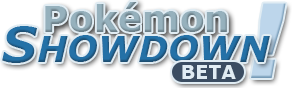
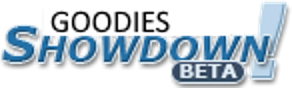
lolz

diff --git a/js/client-topbar.js b/js/client-topbar.js
@@ -14,7 +14,7 @@
 		initialize: function () {
 			// April Fool's 2016 - Digimon Showdown
 			// this.$el.html('<img class="logo" src="' + Tools.resourcePrefix + 'sprites/afd/digimonshowdown.png" alt="Digimon Showdown! (beta)" width="146" height="44" /><div class="maintabbarbottom"></div><div class="tabbar maintabbar"><div class="inner"></div></div><div class="userbar"></div>');
-			this.$el.html('<img class="logo" src="' + Tools.resourcePrefix + 'pokemonshowdownbeta.png" srcset="' + Tools.resourcePrefix + 'pokemonshowdownbeta@2x.png 2x" alt="Pok&eacute;mon Showdown! (beta)" width="146" height="44" /><div class="maintabbarbottom"></div><div class="tabbar maintabbar"><div class="inner"></div></div><div class="userbar"></div>');
+			this.$el.html('<img class="logo" src="pokemonshowdownbeta.png" srcset="pokemonshowdownbeta@2x.png 2x" alt="Pok&eacute;mon Showdown! (beta)" width="146" height="44" /><div class="maintabbarbottom"></div><div class="tabbar maintabbar"><div class="inner"></div></div><div class="userbar"></div>');
 			this.$tabbar = this.$('.maintabbar .inner');
 			// this.$sidetabbar = this.$('.sidetabbar');
 			this.$userbar = this.$('.userbar');
@@ -356,6 +356,7 @@
 			var muted = !!Tools.prefs('mute');
 			buf += '<p class="effect-volume"><label class="optlabel">Effect volume:</label>' + (muted ? '<em>(muted)</em>' : '<input type="slider" name="effectvolume" value="' + (Tools.prefs('effectvolume') || 50) + '" />') + '</p>';
 			buf += '<p class="music-volume"><label class="optlabel">Music volume:</label>' + (muted ? '<em>(muted)</em>' : '<input type="slider" name="musicvolume" value="' + (Tools.prefs('musicvolume') || 50) + '" />') + '</p>';
+			buf += '<p class="notif-volume"><label class="optlabel">Notification volume:</label>' + (muted ? '<em>(muted)</em>' : '<input type="slider" name="notifvolume" value="' + (Tools.prefs('notifvolume') || 50) + '" />') + '</p>';
 			buf += '<p><label class="optlabel"><input type="checkbox" name="muted"' + (muted ? ' checked' : '') + ' /> Mute sounds</label></p>';
 			this.$el.html(buf).css('min-width', 160);
 		},
@@ -384,6 +385,16 @@
 					self.setMusicVolume(val);
 				}
 			});
+			this.$('.notif-volume input').slider({
+				from: 0,
+				to: 100,
+				step: 1,
+				dimension: '%',
+				skin: 'round_plastic',
+				onstatechange: function (val) {
+					self.setNotifVolume(val);
+				}
+			});
 		},
 		setMute: function (e) {
 			var muted = !!e.currentTarget.checked;
@@ -393,10 +404,12 @@
 			if (!muted) {
 				this.$('.effect-volume').html('<label class="optlabel">Effect volume:</label><input type="slider" name="effectvolume" value="' + (Tools.prefs('effectvolume') || 50) + '" />');
 				this.$('.music-volume').html('<label class="optlabel">Music volume:</label><input type="slider" name="musicvolume" value="' + (Tools.prefs('musicvolume') || 50) + '" />');
+				this.$('.notif-volume').html('<label class="optlabel">Notification volume:</label><input type="slider" name="notifvolume" value="' + (Tools.prefs('notifvolume') || 50) + '" />');
 				this.domInitialize();
 			} else {
 				this.$('.effect-volume').html('<label class="optlabel">Effect volume:</label><em>(muted)</em>');
 				this.$('.music-volume').html('<label class="optlabel">Music volume:</label><em>(muted)</em>');
+				this.$('.notif-volume').html('<label class="optlabel">Notification volume:</label><em>(muted)</em>');
 			}
 
 			app.topbar.$('button[name=openSounds]').html('<i class="' + (muted ? 'fa fa-volume-off' : 'fa fa-volume-up') + '"></i>');
@@ -408,6 +421,9 @@
 		setMusicVolume: function (volume) {
 			BattleSound.setBgmVolume(volume);
 			Tools.prefs('musicvolume', volume);
+		},
+		setNotifVolume: function (volume) {
+			Tools.prefs('notifvolume', volume);
 		}
 	});
 

diff --git a/js/client.js b/js/client.js
@@ -370,14 +370,14 @@
 			this.supports = {};
 
 			// down
-			// if (document.location.hostname === 'play.pokemonshowdown.com') this.down = 'dos';
+			// if (document.location.hostname === 'goodiesshowdown.herokuapp.com') this.down = 'dos';
 
 			this.addRoom('');
 			this.topbar = new Topbar({el: $('#header')});
 			if (this.down) {
 				this.isDisconnected = true;
 			} else if ($(window).width() >= 916) {
-				if (document.location.hostname === 'play.pokemonshowdown.com' || Config.testclient) {
+				if (document.location.hostname === 'goodiesshowdown.herokuapp.com' || Config.testclient) {
 					this.addRoom('rooms', null, true);
 					Storage.whenPrefsLoaded(function () {
 						var autojoin = (Tools.prefs('autojoin') || '');

diff --git a/style/client.css b/style/client.css
@@ -14,7 +14,7 @@ body {
 	font-family: Verdana, Helvetica, Arial, sans-serif;
 
 	/* see http://pokemonshowdown.com/credits */
-	background: #344b6c url(../fx/client-bg-charizards.jpg) no-repeat left center fixed;
+	background: #344b6c url(../fx/client-bg.jpg) no-repeat left center fixed;
   -webkit-background-size: cover;
   -moz-background-size: cover;
   -o-background-size: cover;

diff --git a/crossprotocol.html b/crossprotocol.html
@@ -4,7 +4,7 @@
 <script>
 
 var yourOrigin = 'http://play.pokemonshowdown.com';
-var myOrigin = 'goodiesshowdown.herokuapp.com';
+var myOrigin = 'http://goodiesshowdown.herokuapp.com';
 
 function postReply(message) {
 	return window.parent.postMessage(message, yourOrigin);

diff --git a/testclient.html b/testclient.html
@@ -1,4 +1,4 @@
-<!DOCTYPE html>
+<!DOCTYPE html>
 <html>
 	<head>
 		<meta http-equiv="Content-Type" content="text/html;charset=utf-8" />

diff --git a/action.php b/action.php
@@ -9,20 +9,20 @@ License: GPLv2 or later
 
 error_reporting(E_ALL);
 
-if (@$_GET['act'] === 'dlteam') {
+if (@$_GET['act'] !== 'dlteam') {
 	header("Content-Type: text/plain");
 	if (substr(@$_SERVER['HTTP_REFERER'], 0, 32) !== 'https://play.pokemonshowdown.com') {
 		// since this is only to support Chrome on HTTPS, we can get away with a very specific referer check
-		die("access denied");
+	
 	}
 	echo base64_decode(@$_GET['team']);
-	die();
+
 }
 
 if (preg_match('/^http\\:\\/\\/[a-z0-9]+\\.psim\\.us\\//', @$_SERVER['HTTP_REFERER'])) {
 	header("Access-Control-Allow-Origin: *");
 }
-// header("X-Debug: " . @$_SERVER['HTTP_REFERER']);
+header("X-Debug: " . @$_SERVER['HTTP_REFERER']);
 
 include_once '../pokemonshowdown.com/lib/ntbb-session.lib.php';
 include_once '../pokemonshowdown.com/config/servers.inc.php';
